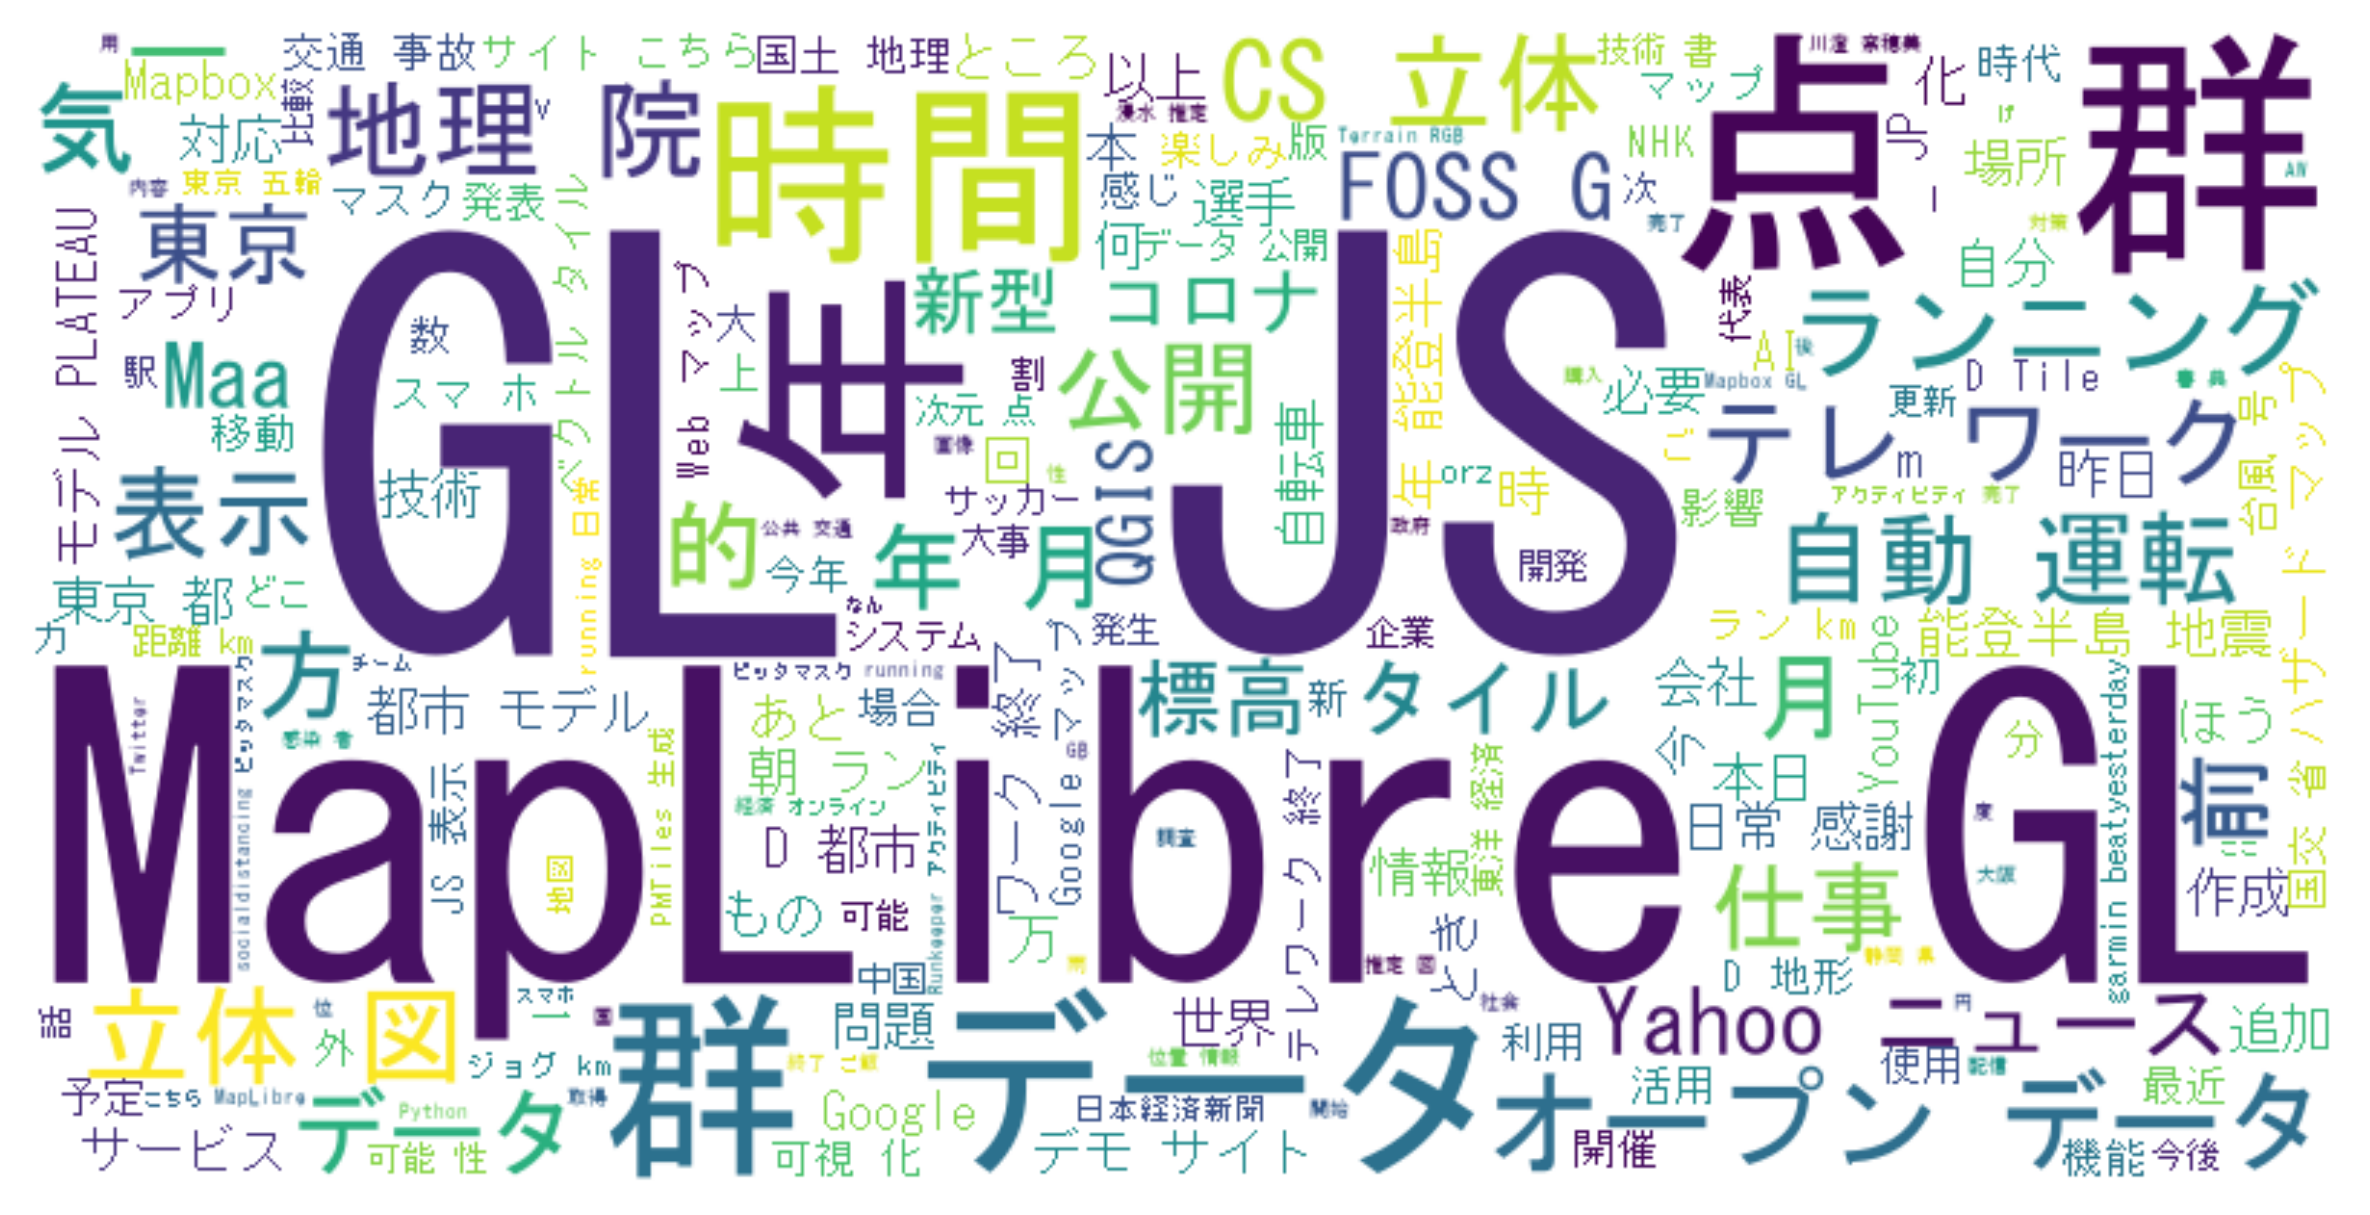
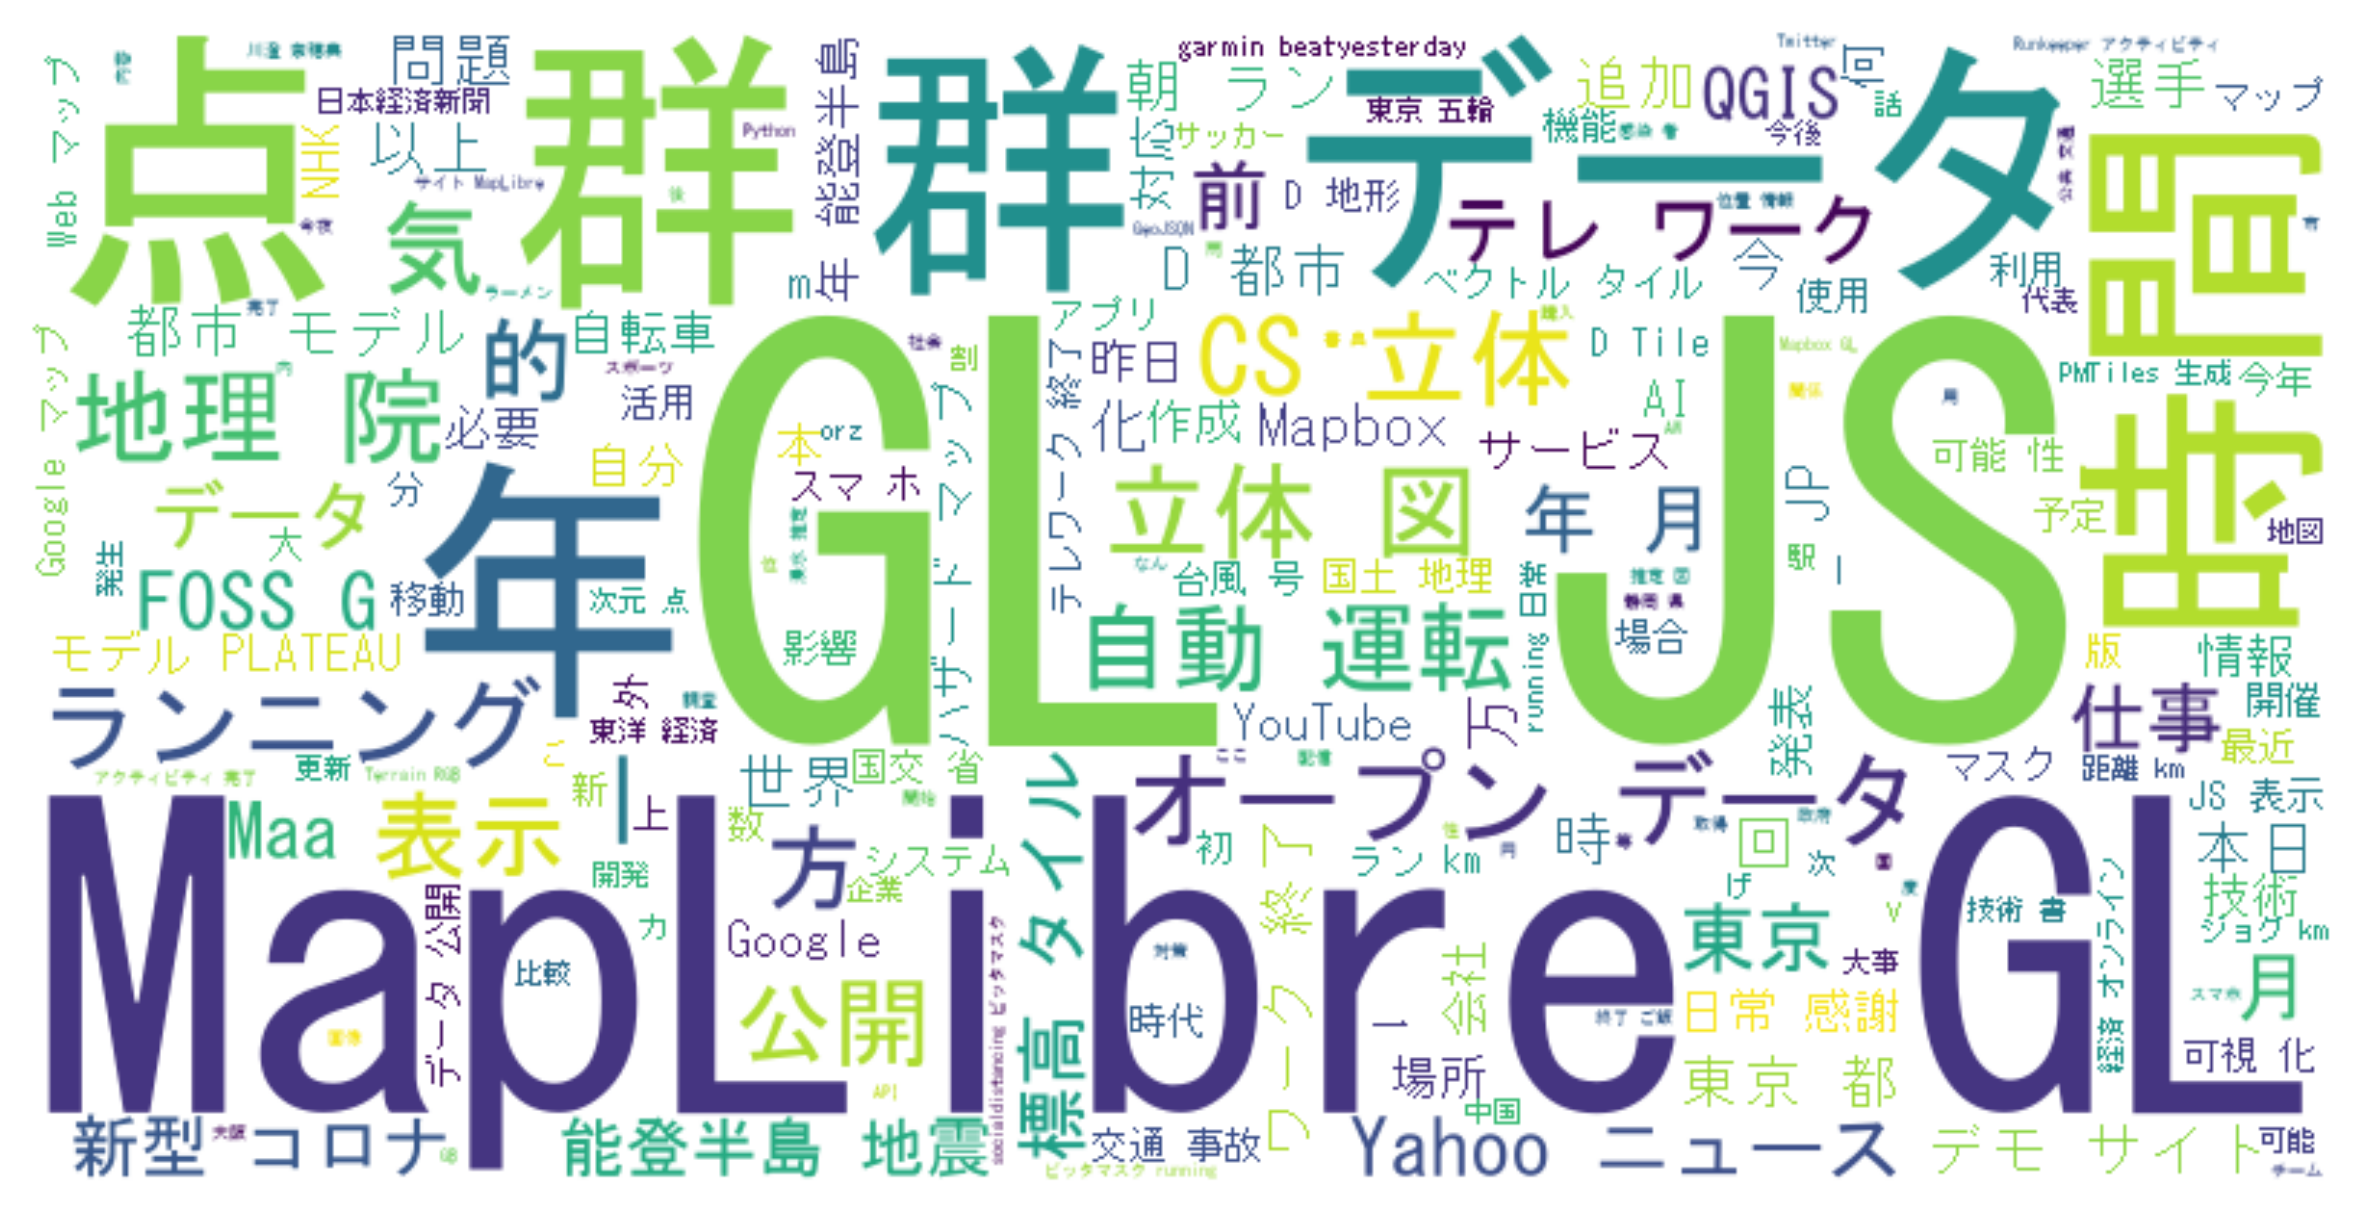
調整

diff --git a/mecab.py b/mecab.py
@@ -8,7 +8,8 @@ import csv
 mecab = MeCab.Tagger('-d "C:/Program Files (x86)/MeCab/dic/ipadic"')
 
 # 除外したい単語（ストップワード）のリスト
-stop_words = {"RT", ":", "@", "#", "よう", "さん", "そう", "こと", "ん", "これ", "ため", "の", "中", "明日", "今日", "人", "日本", "日", "目", "令", "和", "さ", "久しぶり", "お"}
+stop_words = {"RT", ":", "@", "#", "よう", "さん", "そう", "こと", "ん", "これ", "ため", "の", "中", "明日", "今日", 
+              "人", "日本", "日", "目", "令", "和", "さ", "久しぶり", "お", "もの", "あと", "ところ", "楽しみ", "こちら", "とき", "どこ", "感じ", "ほう"}
 
 # 相対パスでのファイルの指定（例: ./input.txt, ./output/output.png）
 input_file = 'tweets_text.txt'
